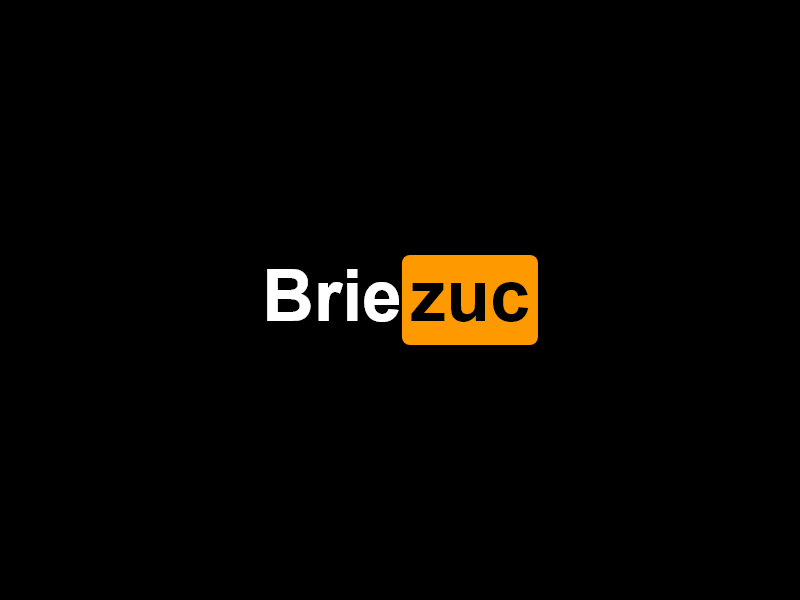
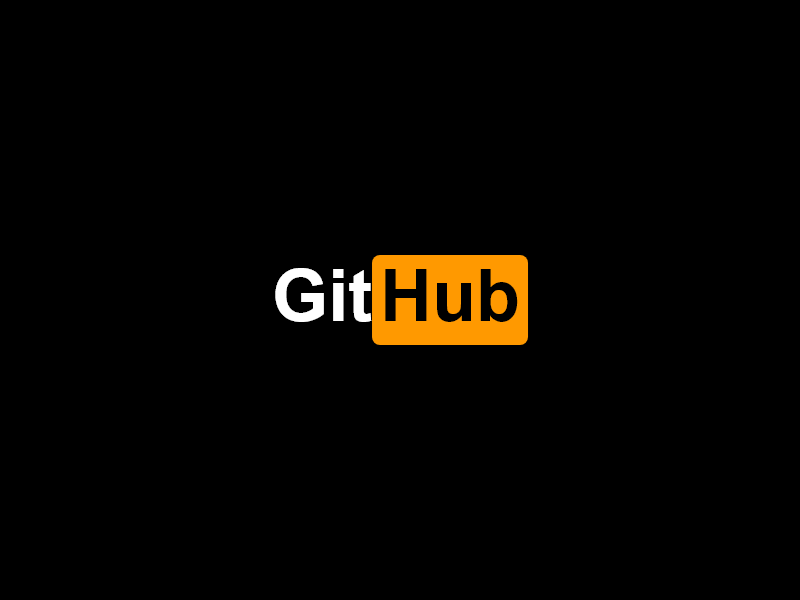
dummy commit

Changed region(s): [[0.3125, 0.42, 0.6875, 0.6]]

diff --git a/test.js b/test.js
@@ -1,7 +1,7 @@
 const fs = require('fs');
 const hub = require('./index.js');
 
-hub('Briezuc').then(img => {
+hub('GitHub').then(img => {
 
     fs.writeFile(`./hub.png`, img, () => {
         console.log('finished generating!')
